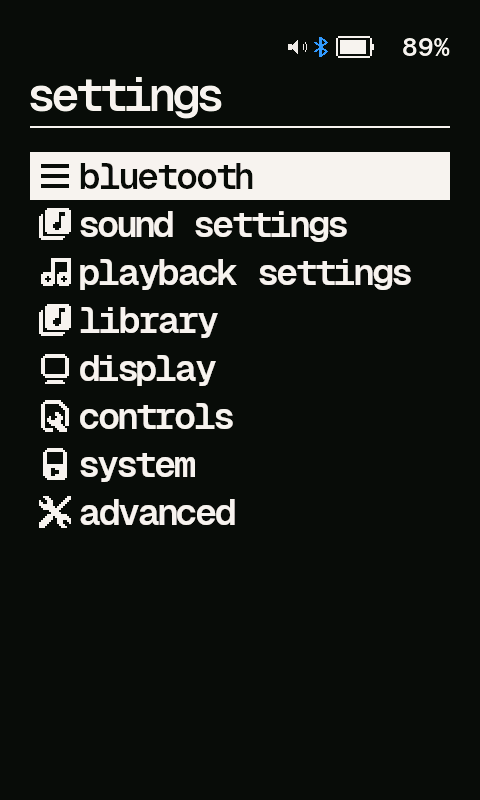
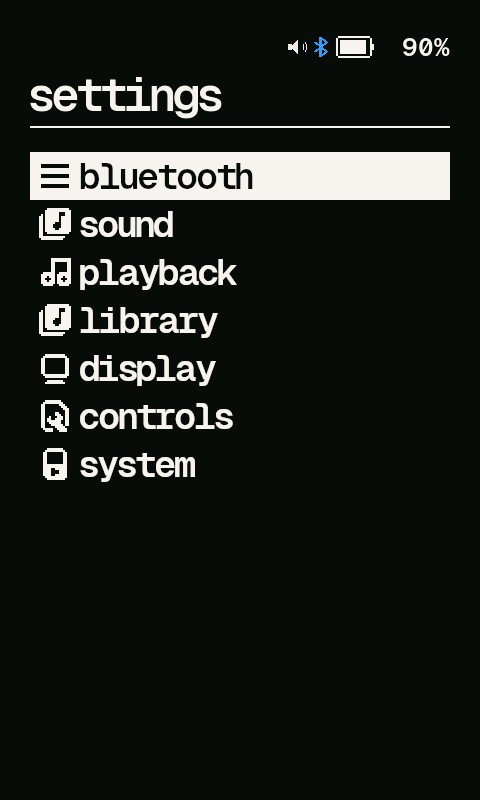
feat(settings): advanced lives inside each page
The top-level Advanced page mirrored the six pages above it, so finding a
setting meant guessing which of two places with the same name it was in.
Each page now ends with its own Advanced, audio effects and lists &
scrolling sit under Sound and Display, and the three duck depths are next
to the switch they belong to. Sound Settings and Playback Settings are
Sound and Playback, like the pages beside them.

Claude-Session: https://claude.ai/code/session_017kqVyLuTb7TFSwRi22K4U1

Changed region(s): [[0.4062, 0.25, 0.875, 0.375], [0.0625, 0.625, 0.5, 0.6562], [0.8438, 0.0312, 0.9062, 0.0625]]

diff --git a/apps/menus/settings_menu.c b/apps/menus/settings_menu.c
@@ -441,9 +441,8 @@ MENUITEM_SETTING(sound_duck_click, &global_settings.sound_duck_click, NULL);
 MENUITEM_SETTING(sound_duck_alert, &global_settings.sound_duck_alert, NULL);
 MENUITEM_SETTING(sound_duck_cue, &global_settings.sound_duck_cue, NULL);
 
-MAKE_MENU(device_sounds_menu, ID2P(LANG_DEVICE_SOUNDS), 0, Icon_Audio,
-          &keyclick, &keyclick_volume, &beep, &sound_duck);
-MAKE_MENU(advanced_sounds_menu, ID2P(LANG_DEVICE_SOUNDS), 0, Icon_Audio,
+/* Which presses click: the one page of this nobody needs twice. */
+MAKE_MENU(advanced_sounds_menu, ID2P(LANG_ADVANCED), 0, Icon_Config,
           &keyclick_repeats,
 #ifdef HAVE_HARDWARE_CLICK
           &keyclick_hardware,
@@ -456,8 +455,11 @@ MAKE_MENU(advanced_sounds_menu, ID2P(LANG_DEVICE_SOUNDS), 0, Icon_Audio,
           &keyclick_src_stick_dial,
           &keyclick_src_stick_scroll,
           &keyclick_src_touch,
-          &keyclick_src_lock,
-          &sound_duck_click, &sound_duck_alert, &sound_duck_cue);
+          &keyclick_src_lock);
+MAKE_MENU(device_sounds_menu, ID2P(LANG_DEVICE_SOUNDS), 0, Icon_Audio,
+          &keyclick, &keyclick_volume, &beep,
+          &sound_duck, &sound_duck_click, &sound_duck_alert, &sound_duck_cue,
+          &advanced_sounds_menu);
 
 #if CONFIG_CHARGING
 MENUITEM_SETTING(car_adapter_mode, &global_settings.car_adapter_mode, NULL);
@@ -851,6 +853,7 @@ MAKE_MENU(library_menu, ID2P(LANG_LIBRARY), 0, Icon_Audio,
           &tagcache_menu,
 #endif
           &file_menu,
+          &advanced_library_menu,
           );
 
 MAKE_MENU(controls_menu, ID2P(LANG_CONTROLS), 0, Icon_Menu_setting,
@@ -869,6 +872,7 @@ MAKE_MENU(controls_menu, ID2P(LANG_CONTROLS), 0, Icon_Menu_setting,
           &hotkey_wps_item,
           &hotkey_tree_item,
 #endif
+          &advanced_input_menu,
           );
 
 MAKE_MENU(system_menu, ID2P(LANG_SYSTEM), 0, Icon_System_menu,
@@ -889,9 +893,10 @@ MAKE_MENU(system_menu, ID2P(LANG_SYSTEM), 0, Icon_System_menu,
           &sleeptimer_duration,
           &manage_settings,
           &info_menu,
+          &advanced_system_menu,
           );
 
-MAKE_MENU(advanced_library_menu, ID2P(LANG_LIBRARY), 0, Icon_Audio,
+MAKE_MENU(advanced_library_menu, ID2P(LANG_ADVANCED), 0, Icon_Config,
           &playlist_settings,
           &sort_case, &interpret_numbers, &browse_current,
           &show_path_in_browser, &clear_start_directory_item,
@@ -903,7 +908,7 @@ MAKE_MENU(advanced_library_menu, ID2P(LANG_LIBRARY), 0, Icon_Audio,
 #endif
           );
 
-MAKE_MENU(advanced_system_menu, ID2P(LANG_SYSTEM), 0, Icon_System_menu,
+MAKE_MENU(advanced_system_menu, ID2P(LANG_ADVANCED), 0, Icon_Config,
 #ifdef HAVE_DISK_STORAGE
           &disk_spindown,
 #endif
@@ -949,15 +954,5 @@ MAKE_MENU(advanced_system_menu, ID2P(LANG_SYSTEM), 0, Icon_System_menu,
 #endif
           );
 
-MAKE_MENU(settings_advanced_menu, ID2P(LANG_ADVANCED), 0, Icon_Config,
-          &audio_effects_menu,
-          &advanced_playback_menu,
-          &advanced_sounds_menu,
-          &advanced_input_menu,
-          &advanced_lists_menu,
-          &advanced_display_menu,
-          &advanced_library_menu,
-          &advanced_system_menu,
-          );
 /*    SETTINGS MENU                */
 /***********************************/

diff --git a/apps/menus/display_menu.c b/apps/menus/display_menu.c
@@ -625,7 +625,7 @@ MENUITEM_SETTING(volume_adjust_norm_steps, &global_settings.volume_adjust_norm_s
 MENUITEM_SETTING(shortcuts_replaces_quickscreen, &global_settings.shortcuts_replaces_qs, NULL);
 #endif
 
-MAKE_MENU(advanced_input_menu, ID2P(LANG_INPUT), NULL, Icon_NOICON,
+MAKE_MENU(advanced_input_menu, ID2P(LANG_ADVANCED), NULL, Icon_Config,
 #ifdef HAVE_TOUCHSCREEN
             &stick_sectors, &stick_rotation,
             &stick_arm_ms, &stick_deg_per_detent,
@@ -695,10 +695,12 @@ MAKE_MENU(display_menu, ID2P(LANG_DISPLAY),
 #ifdef HAVE_VIDEO
             &saver_menu,
 #endif
+            &advanced_lists_menu,
+            &advanced_display_menu,
             );
 
-MAKE_MENU(advanced_display_menu, ID2P(LANG_DISPLAY),
-            NULL, Icon_Display_menu,
+MAKE_MENU(advanced_display_menu, ID2P(LANG_ADVANCED),
+            NULL, Icon_Config,
 #ifdef HAVE_BACKLIGHT
             &backlight_on_button_hold,
             &caption_backlight,

diff --git a/apps/menus/playback_menu.c b/apps/menus/playback_menu.c
@@ -40,6 +40,7 @@
 #include "talk.h"
 #include "lyrics.h"
 #include "pradio.h"
+#include "exported_menus.h"
 #endif
 
 #if defined(HAVE_CROSSFADE)
@@ -221,10 +222,11 @@ MAKE_MENU(playback_settings,ID2P(LANG_PLAYBACK),0,
 #ifdef HAVE_LYRICS
         ,&lyrics_menu
 #endif
+        ,&advanced_playback_menu
          );
 
-MAKE_MENU(advanced_playback_menu,ID2P(LANG_PLAYBACK),0,
-          Icon_Playback_menu,
+MAKE_MENU(advanced_playback_menu,ID2P(LANG_ADVANCED),0,
+          Icon_Config,
           &play_selected,
           &ff_rewind_settings_menu,
 #ifdef HAVE_DISK_STORAGE

diff --git a/apps/menus/exported_menus.h b/apps/menus/exported_menus.h
@@ -40,8 +40,9 @@ extern const struct menu_item_ex
         library_menu,               /* settings_menu.c  */
         controls_menu,
         system_menu,
-        settings_advanced_menu,
         device_sounds_menu,
+        advanced_library_menu,
+        advanced_system_menu,
         bookmark_settings_menu,
         altmenu_menu,
         wps_set_context_plugin,

diff --git a/apps/menus/sound_menu.c b/apps/menus/sound_menu.c
@@ -245,6 +245,7 @@ MAKE_MENU(sound_settings, ID2P(LANG_SOUND_SETTINGS), NULL, Icon_Audio,
           ,&balance
           ,&equalizer_menu, &crossfeed_menu, &replaygain_settings_menu
           ,&device_sounds_menu
+          ,&audio_effects_menu
          );
 
 MAKE_MENU(audio_effects_menu, ID2P(LANG_AUDIO_EFFECTS), NULL, Icon_Audio,

diff --git a/apps/menus/main_menu.c b/apps/menus/main_menu.c
@@ -517,7 +517,6 @@ MAKE_MENU(main_menu_, ID2P(LANG_SETTINGS), NULL,
         &recording_settings,
 #endif
         &system_menu,
-        &settings_advanced_menu,
         );
 /*    MAIN MENU                    */
 /***********************************/

diff --git a/docs/mods/lyrics.md b/docs/mods/lyrics.md
@@ -22,11 +22,11 @@ Supported formats:
 - **Plain text:** there are no times, so the view moves through the lyrics at an even pace over the middle 80% of the track.
 - **Lyrics stored in tags** can themselves be LRC. Many taggers do this, and those lyrics are shown synced.
 
-Text can be UTF-8 or UTF-16 (with or without a BOM). Any other text is read in the codepage set in **Settings > Advanced > Display > Default Codepage**.
+Text can be UTF-8 or UTF-16 (with or without a BOM). Any other text is read in the codepage set in **Settings > Display > Advanced > Default Codepage**.
 
 ## Languages and fonts
 
-Lyrics use the WPS's own fonts. If a font lacks a character (Japanese, Chinese or Korean in a Latin font, for example), that character comes from the **fallback font** instead: **Settings > Advanced > Display > Fallback Font**. The default is `16-GNU-Unifont`, which is in the fonts pack and covers the whole Basic Multilingual Plane. You can pick any other `.fnt`, for example a Noto Sans CJK converted with `tools/convttf`. The fallback works for all text, not only lyrics, and characters are aligned on the line's baseline.
+Lyrics use the WPS's own fonts. If a font lacks a character (Japanese, Chinese or Korean in a Latin font, for example), that character comes from the **fallback font** instead: **Settings > Display > Advanced > Fallback Font**. The default is `16-GNU-Unifont`, which is in the fonts pack and covers the whole Basic Multilingual Plane. You can pick any other `.fnt`, for example a Noto Sans CJK converted with `tools/convttf`. The fallback works for all text, not only lyrics, and characters are aligned on the line's baseline.
 
 Vietnamese and other Latin-script languages need a font that has their characters. The GeistMono faces in the Snappy themes cover them.
 

diff --git a/README.md b/README.md
@@ -76,7 +76,7 @@ Available in the [Development Build](#development-builds):
 * **Optimized Background Checks:** Extends battery life.
 * **Battery Protection Options:** Added configurable limits for charging voltage, current, and low-battery power-off (*Settings -> System -> Battery*).
   *Shortcut:* with System shown in the Main Menu (Settings -> Controls -> Main Menu Layout), long-press it to open System Settings directly.
-* **Touchscreen Exemptions:** Added the ability to disable touch controls in WPS and/or Lists/Menus (*Settings -> Advanced -> Input -> Touchscreen Exemptions*).
+* **Touchscreen Exemptions:** Added the ability to disable touch controls in WPS and/or Lists/Menus (*Settings -> Controls -> Advanced -> Touchscreen Exemptions*).
 * **Screen-Off Shutdown Beep:** Added an audible beep when powering off via hardware button with the screen off, preventing over-pressing in your pocket. *(Note: Voice Menu must be disabled to hear this).*
 * **Snappier Scrolling & Navigation:** Removed scrolling inertia when stopping. Disabled the right-half screen tap for the **Quickscreen** to prevent accidental activations when attempting to navigate **Back**.
 * **Touch-Friendly Lists:** Increased the default size of list elements. Fine tune it for your fingers via *Settings -> Display -> Line Padding in Lists*.

diff --git a/docs/mods/listening-history.md b/docs/mods/listening-history.md
@@ -15,4 +15,4 @@ A track that never started is not logged. A short listen is, and marked by its `
 
 The file is tab separated, so a spreadsheet opens it as it is. Past 8 MiB (about 70 000 listens) it moves to `listens.1.tsv` and a new one starts. It is not part of the database: rebuilding the database keeps it, and a listen to a file that has since moved still counts.
 
-*Settings > Advanced > Library > Listening History* turns it off. Delete the file to forget it. *Gather Runtime Data* (play counts and last played, in the database) is now on by default too.
+*Settings > Library > Advanced > Listening History* turns it off. Delete the file to forget it. *Gather Runtime Data* (play counts and last played, in the database) is now on by default too.

diff --git a/docs/mods/rockpocket-stick.md b/docs/mods/rockpocket-stick.md
@@ -14,7 +14,7 @@ before this feature existed.
 
 ## Turning it on
 
-*Settings → Controls → Rockpocket Stick*. Sectors, Rose Rotation, Arming Window and Degrees Per Detent are in *Settings → Advanced → Input*.
+*Settings → Controls → Rockpocket Stick*. Sectors, Rose Rotation, Arming Window and Degrees Per Detent are in *Settings → Controls → Advanced*.
 
 | Setting | Meaning |
 |---|---|
